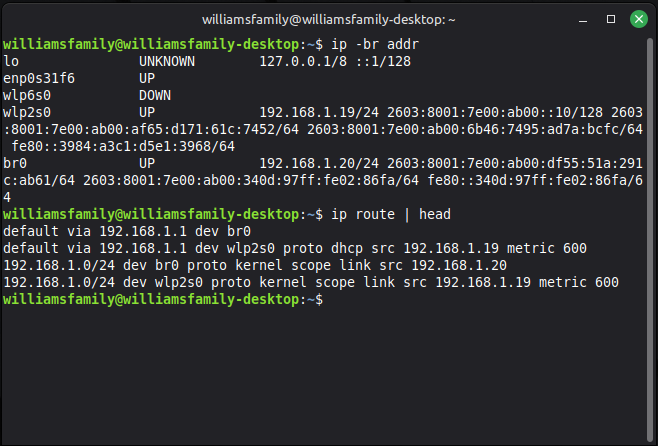
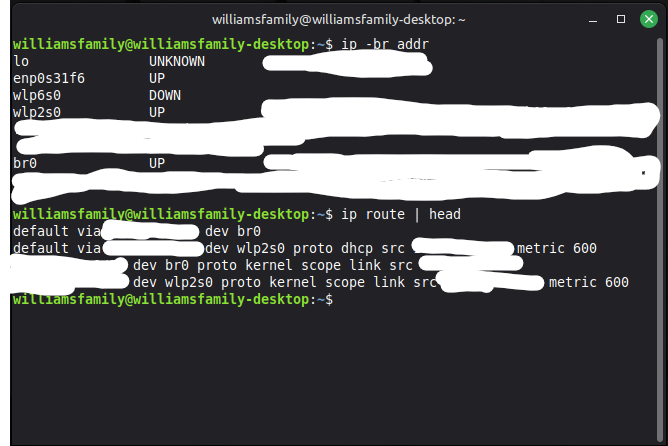
Phase0: sanitized evidence

Changed region(s): [[0.0, 0.0, 1.0, 1.0], [0.304, 0.0291, 0.6991, 0.0583], [0.9119, 0.0291, 0.9726, 0.0583]]

diff --git a/labs/entra/docs/00-overview/P0.1-lab-inventory.md b/labs/entra/docs/00-overview/P0.1-lab-inventory.md
@@ -1,23 +1,32 @@
 # Lab Inventory & Access (P0.1)
 
-## Platform
-- Hypervisor/Cloud: __________
-- Admin workstation: __________
-- Network segments (if any): __________
+## Host & Hypervisor
+- Host OS: Linux Mint
+- Hardware: i7-7700, 32GB RAM
+- Hypervisor: KVM/libvirt + virt-manager
+- Virtual network: bridged LAN via `br0`
 
-## Systems Inventory
-| Name | Role | Domain/Forest | OS | IP | Notes |
-|---|---|---|---|---|---|
-| DC1 | Corp root DC | corp.jpw.lab | | | |
-| DC2 | Corp child DC | east.corp.jpw.lab | | | |
-| DC3 | Corp child DC | west.corp.jpw.lab | | | |
-| ATS-DC1 | ATS DC | ats.jpw.lab | | | |
-| JW-ADM | Admin workstation | (workgroup/corp) | | | |
+## Network (Sanitized for public repo)
+- Network mode: KVM bridged LAN (`br0`)
+- Private addressing: RFC1918 /24 (e.g., `192.168.x.0/24`)
+- IP management: DHCP with reservations for host + lab VMs
+- Default gateway/DHCP: consumer router (details redacted)
+- Required egress: HTTPS 443 to Microsoft Entra endpoints
+- Remote access model:
+  - From LAN → RDP to `JPW-ADM-01` (jumpbox)
+  - Host access (SSH) restricted to admin workstation IP (redacted)
 
-## Connectivity / Internet
-- Outbound internet confirmed from: __________
-- Notes (proxy, DNS forwarders, firewall): __________
 
-## Time Sync
-- Intended time source: __________
-- Validation captured from: __________
+## Systems Inventory (Planned → Built)
+| Name | Role | Domain/Forest | OS | vCPU/RAM/Disk | Network | Status |
+|---|---|---|---|---|---|---|
+| JPW-ADM-01 | Jumpbox/Admin workstation | Workgroup (initially) | Windows Server 2025 Eval (Desktop Experience) | 2 / 6GB / 100GB | br0 (DHCP reservation) | Built |
+| CORP-DC1 | Root DC + DNS | corp.jpw.lab | Windows Server 2025 Eval | 2 / 4GB / 80GB | br0 | Planned |
+| EAST-DC1 | Child DC + DNS | east.corp.jpw.lab | Windows Server 2025 Eval | 2 / 4GB / 80GB | br0 | Planned |
+| WEST-DC1 | Child DC + DNS | west.corp.jpw.lab | Windows Server 2025 Eval | 2 / 4GB / 80GB | br0 | Planned |
+| ATS-DC1 | ATS DC + DNS | ats.jpw.lab | Windows Server 2025 Eval | 2 / 4GB / 80GB | br0 | Planned |
+| SYNC-01 | Cloud Sync agent | (later) | Windows Server 2025 Eval | 2 / 4GB / 80GB | br0 | Optional |
+
+## Notes / Constraints
+- Objective: VMs reachable from anywhere on LAN, securely, via jumpbox access model.
+- Evidence: P0.1 screenshots stored under `exports/Evidence-Pack-v1.0/Phase-0/`.
